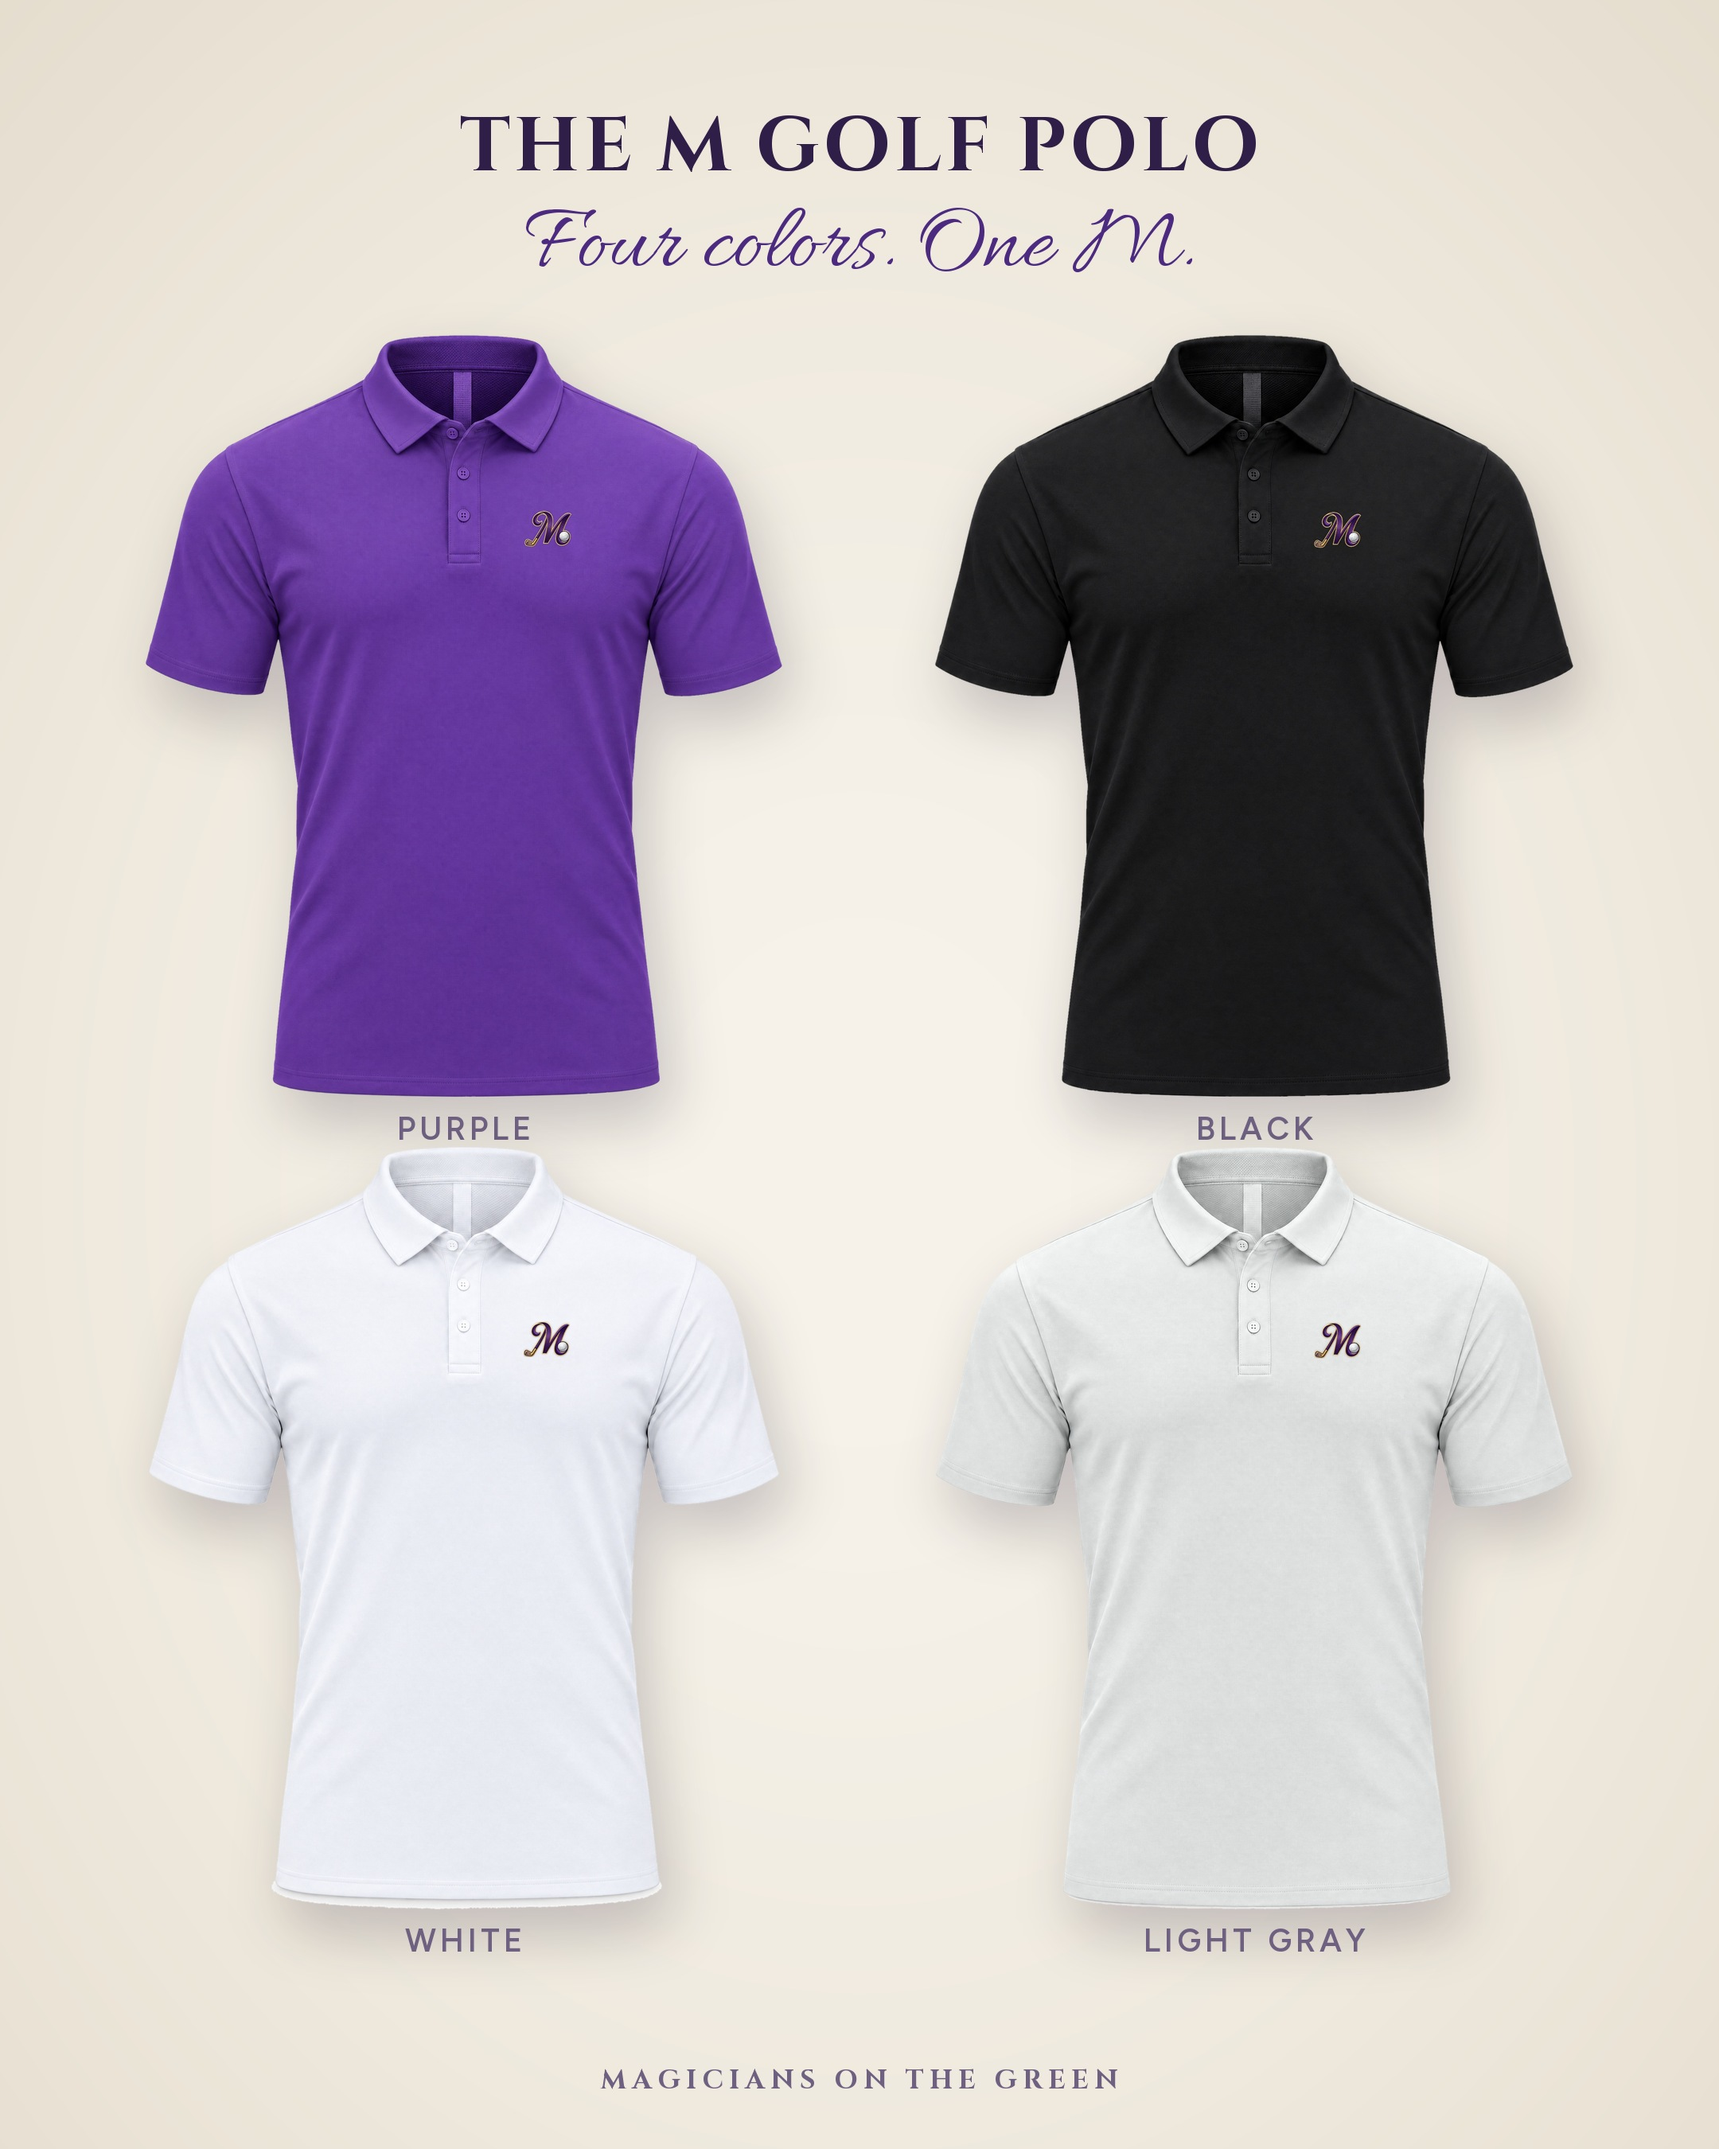
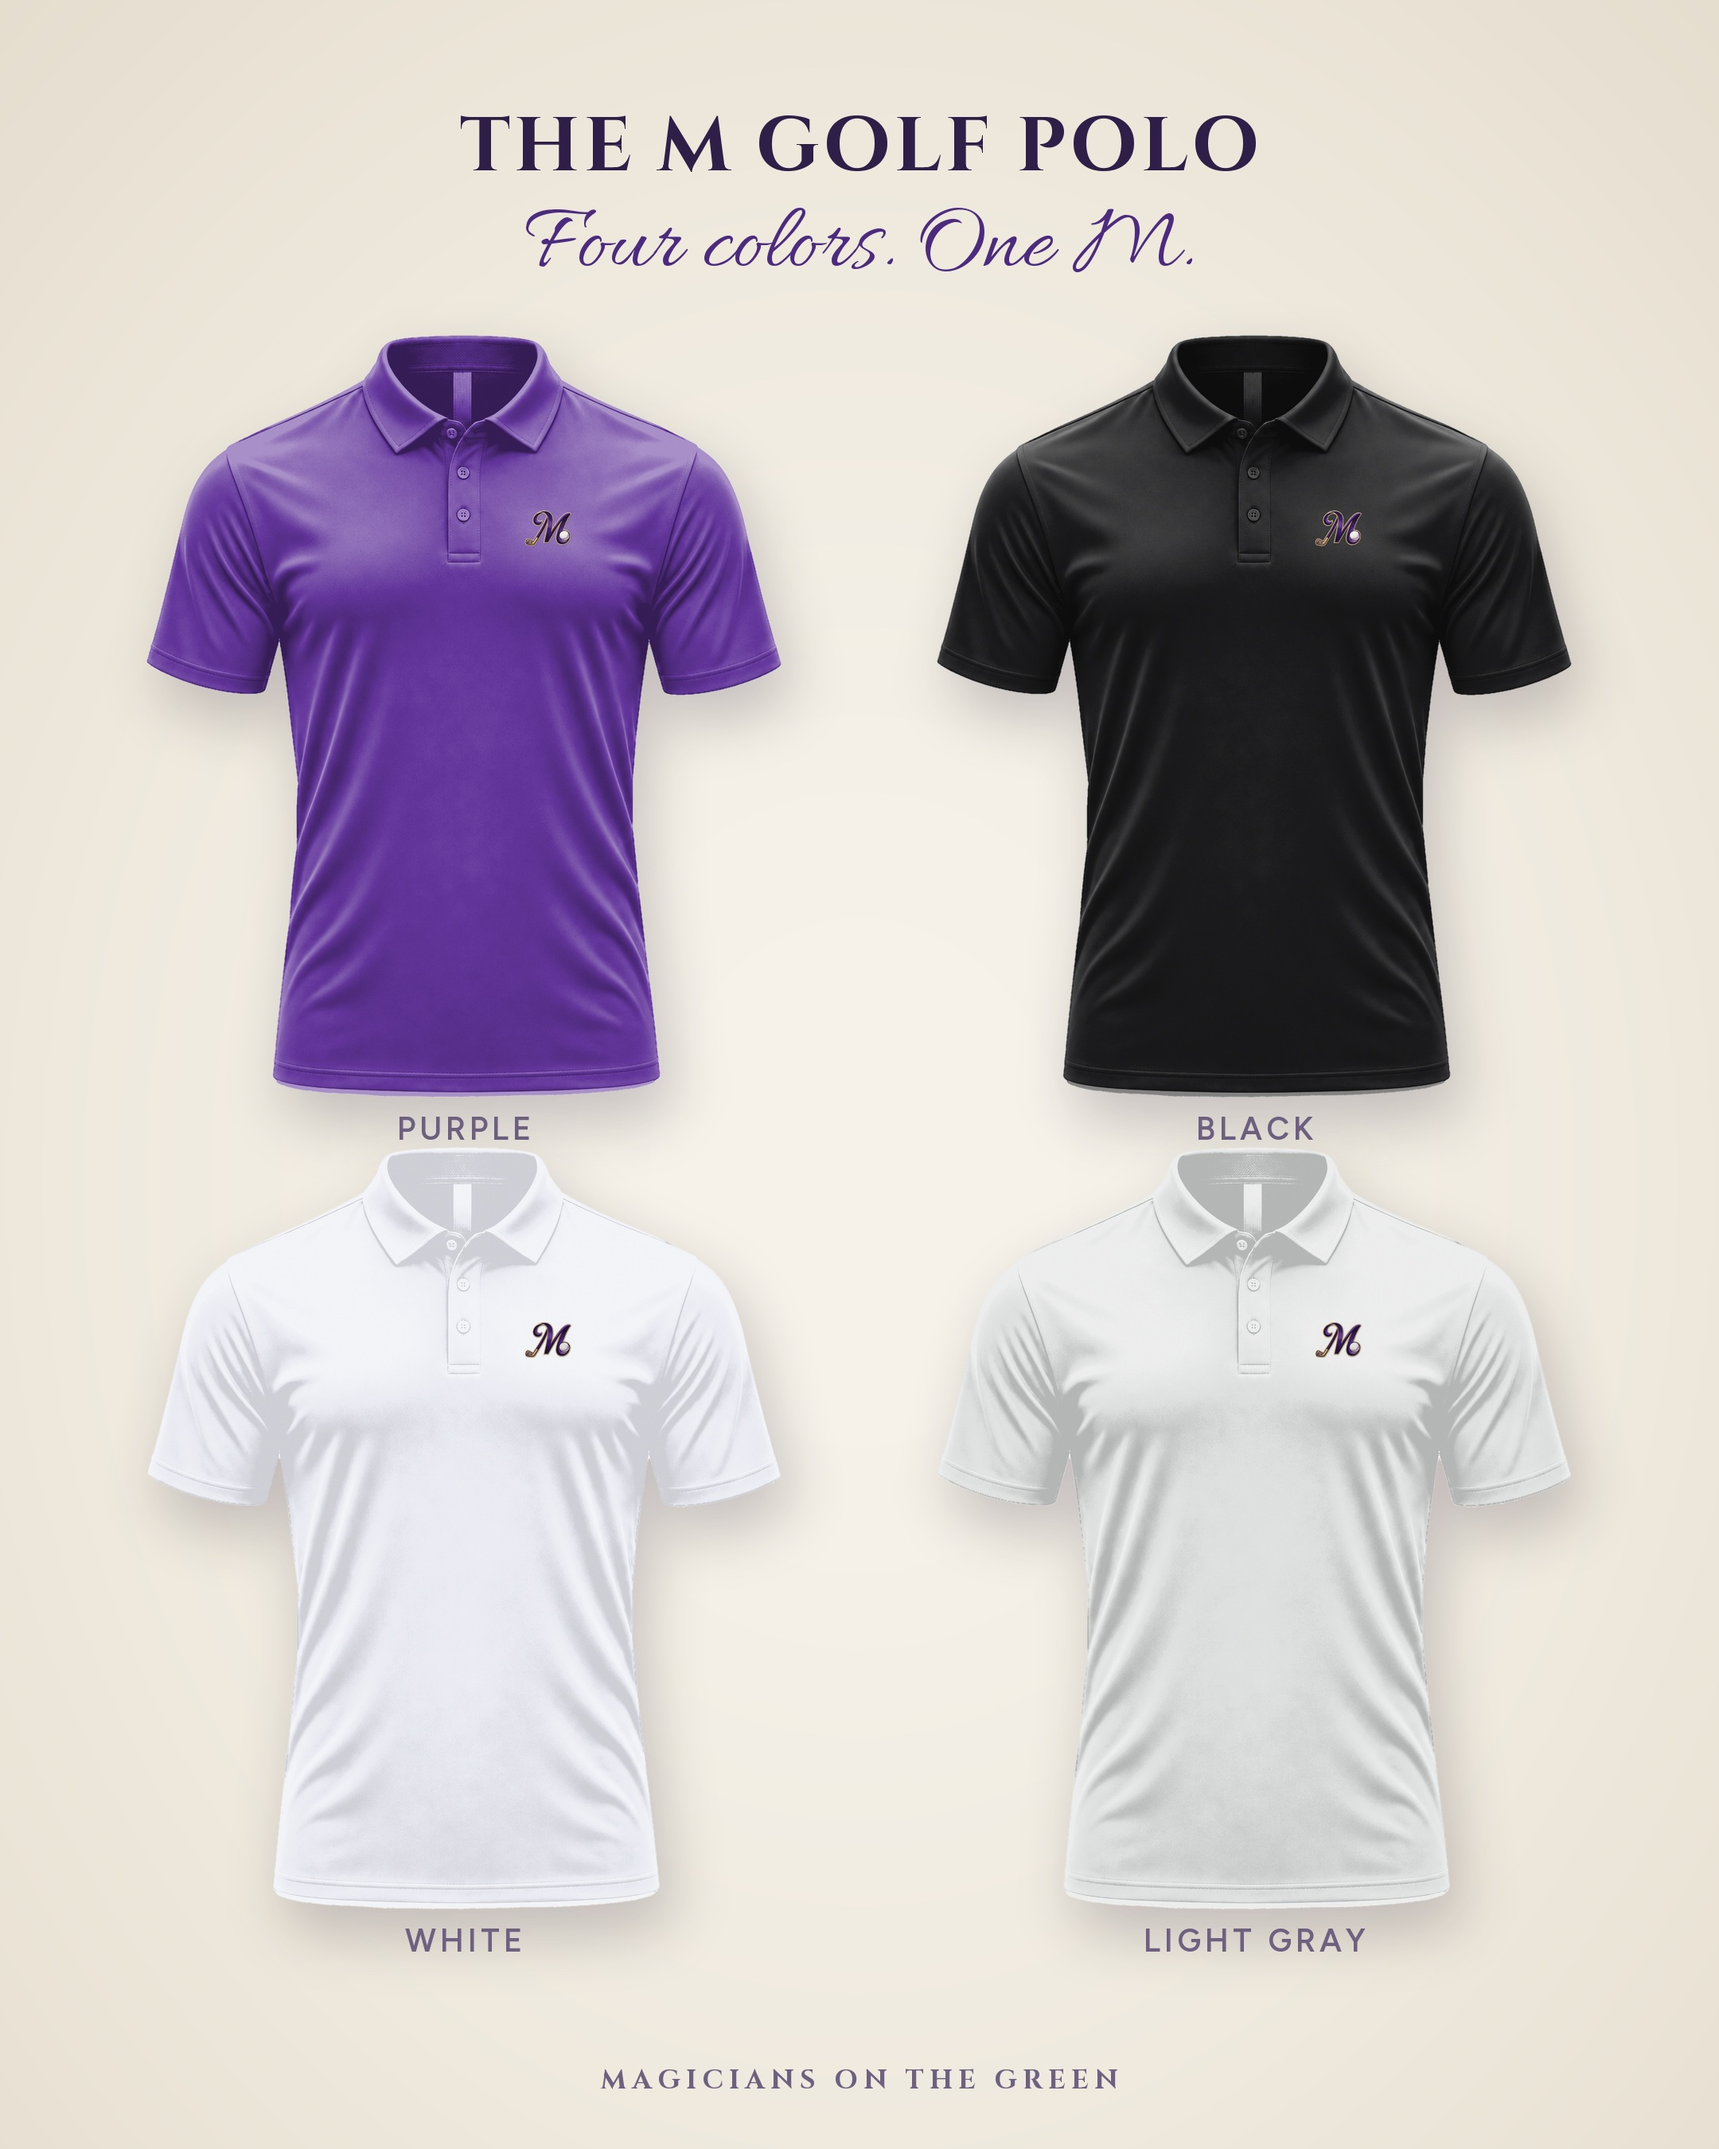
Polo mockups and product images in performance fabric (86% polyester, 14% spandex)
New ghost front/back set for all four colors in assets/polo/performance/,
smooth knit with sheen; mockups rebuilt from it.

diff --git a/tools/polo_perf_build.py b/tools/polo_perf_build.py
@@ -1,0 +1,62 @@
+import sys; sys.argv=['x']; sys.path.insert(0,'.')
+import numpy as np
+from PIL import Image
+from scipy import ndimage
+exec(open('shrink.py').read().split('def erase')[0])      # place()
+from embroider import embroider
+from placew import place_w
+P='/Users/ronniefoster/motg-website/assets/polo/'
+def mask_of(a):
+    near=(a.min(2)>=240)&((a.max(2)-a.min(2))<12)
+    lab,n=ndimage.label(near)
+    border=set(np.unique(np.concatenate([lab[0],lab[-1],lab[:,0],lab[:,-1]])))-{0}
+    bg=np.isin(lab,list(border))
+    H=a.shape[0]
+    for i,sl in enumerate(ndimage.find_objects(lab),1):
+        if sl is not None and sl[0].start>H*0.8 and (lab[sl]==i).sum()>200: bg|=lab==i
+    return ndimage.binary_opening(ndimage.binary_fill_holes(~bg),iterations=2)
+def geom(m):
+    ys,xs=np.where(m); top=ys.min()
+    H=m.shape[0]; row=int(top+0.56*(ys.max()-top))
+    r=np.where(m[row])[0]
+    # torso only: longest run around center
+    runs=np.split(r,np.where(np.diff(r)>1)[0]+1); run=max(runs,key=len)
+    return top,(run[0]+run[-1])/2,run[-1]-run[0]
+def ref_geom(path,logo_xy,logo_w):
+    a=np.asarray(Image.open(path).convert('RGB')).astype(int); m=mask_of(a)
+    top,cx,tw=geom(m); return ((logo_xy[0]-cx)/tw,(logo_xy[1]-top)/tw,logo_w/tw)
+# reference proportions from the current approved product images
+RF=ref_geom(P+'m-golf-polo-purple-ghost-front.jpg',(1114,623),124)
+RB=ref_geom(P+'m-golf-polo-purple-ghost-back.jpg',(895,362),180)
+print('ref front',RF,'ref back',RB)
+TARGET={'purple':(98,53,155),'black':(27,27,28),'white':(233,235,242),'lightgray':(221,223,222)}
+GAM={'purple':1.0,'black':1.0,'white':0.55,'lightgray':0.7}
+rng=np.random.default_rng(7)
+for view,src,R in [('front','gen/fab1.png',RF),('back','gen/bk0.png',RB)]:
+    im=Image.open(src).convert('RGB').resize((1792,2240),Image.LANCZOS)
+    a=np.asarray(im).astype(float); m=mask_of(a.astype(int))
+    alpha=ndimage.gaussian_filter(m.astype(float),1.0)[...,None]
+    Y=a@[0.299,0.587,0.114]
+    top,cx,tw=geom(m); print(view,'geom',top,cx,tw)
+    ys,xs=np.where(m); chest=Y[int(top+0.35*(ys.max()-top)):int(top+0.6*(ys.max()-top)), int(cx-tw*0.3):int(cx+tw*0.3)]
+    s=Y/np.median(chest)
+    # take shading from the interior only, then extend it to the anti-aliased edge
+    inner=ndimage.binary_erosion(m,iterations=4)
+    idx=ndimage.distance_transform_edt(~inner,return_distances=False,return_indices=True)
+    s=s[idx[0],idx[1]]
+    LIM={'purple':(0.55,1.6),'black':(0.5,2.2),'white':(0.8,1.3),'lightgray':(0.75,1.35)}
+    for c,t in TARGET.items():
+        lo,hi=LIM[c]; sc=np.clip(s,lo,hi)
+        t=np.array(t,float); light=t+(255-t)*0.45
+        dark=t*np.clip(sc,0,1)[...,None]**GAM[c]
+        up=np.clip((sc-1)/(hi-1),0,1)[...,None]
+        col=np.where(sc[...,None]>1, t+(light-t)*up, dark)
+        col=col+rng.normal(0,1.2,col.shape)          # faint knit grain
+        out=a*(1-alpha)+np.clip(col,0,255)*alpha
+        out=np.where(alpha>0.001,out,255.0)
+        img=Image.fromarray(np.clip(out,0,255).astype('uint8'))
+        lx=int(cx+R[0]*tw); ly=int(top+R[1]*tw); lw=int(R[2]*tw)
+        if view=='front': img=embroider(img,lx,ly,lw,light=(-1,-1))
+        else:
+            img=place_w(img,lx,ly,lw)
+        img.save(f'perf/m-golf-polo-{c}-ghost-{view}.jpg',quality=94)

diff --git a/tools/polo_place_wizard.py b/tools/polo_place_wizard.py
@@ -1,0 +1,16 @@
+import numpy as np
+from PIL import Image, ImageFilter
+def place_w(img,cx,cy,w):
+    lg=Image.open('/Users/ronniefoster/motg-website/assets/wizard-mascot.png').convert('RGBA'); lg=lg.crop(lg.getbbox())
+    h=int(lg.height*w/lg.width); lg=lg.resize((w,h),Image.LANCZOS)
+    x,y=cx-lg.width//2,cy-lg.height//2
+    base=np.asarray(img.convert('RGB')).astype(float)
+    region=base[y:y+lg.height,x:x+lg.width]; lum=region.mean(axis=2)
+    blur=np.asarray(Image.fromarray(lum.astype('uint8')).filter(ImageFilter.GaussianBlur(25))).astype(float)+1
+    shade=np.clip(lum/blur,0.86,1.12)[...,None]
+    arr=np.asarray(lg).astype(float); a=arr[...,3:]/255
+    sh=Image.fromarray(arr[...,3].astype('uint8')).filter(ImageFilter.GaussianBlur(2))
+    sa=(np.asarray(sh).astype(float)/255)[...,None]*0.22
+    out=region*(1-sa); out=out*(1-a)+arr[...,:3]*shade*a
+    base[y:y+lg.height,x:x+lg.width]=out
+    return Image.fromarray(np.clip(base,0,255).astype('uint8'))

diff --git a/tools/polo_mockups.py b/tools/polo_mockups.py
@@ -58,7 +58,7 @@ a=np.asarray(src.convert('RGB')).astype(int); al=np.asarray(src.split()[3])
 X0,Y0,X1,Y1=650,120,1050,520
 reg=a[Y0:Y1,X0:X1]; ok=al[Y0:Y1,X0:X1]>250
 med=np.median(reg[ok].reshape(-1,3),0)
-dd=(np.abs(reg-med).sum(2)>140)&ok
+dd=((reg[...,1]>reg[...,2]-5)|(reg.min(2)>200))&ok
 dd=ndimage.binary_opening(dd,iterations=2)
 ys,xs=np.where(dd)
 wx=X0+(xs.min()+xs.max())/2; wy=Y0+(ys.min()+ys.max())/2

diff --git a/tools/polo_cutout.py b/tools/polo_cutout.py
@@ -1,7 +1,7 @@
 import numpy as np
 from PIL import Image
 from scipy import ndimage
-A='/Users/ronniefoster/motg-website/assets/polo/'
+A='perf/'
 for c in ['purple','black','white','lightgray']:
   for v in ['front','back']:
     im=Image.open(f'{A}m-golf-polo-{c}-ghost-{v}.jpg').convert('RGB'); a=np.asarray(im).astype(int)
